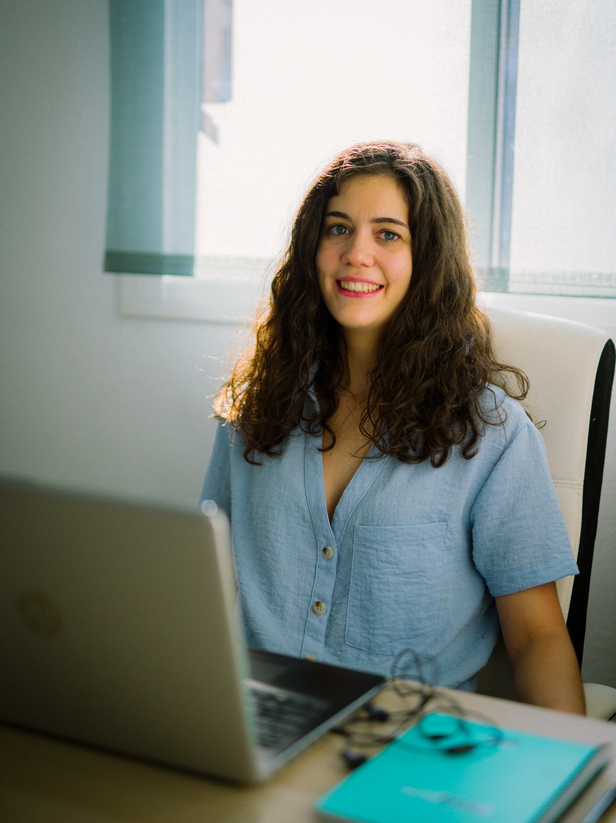
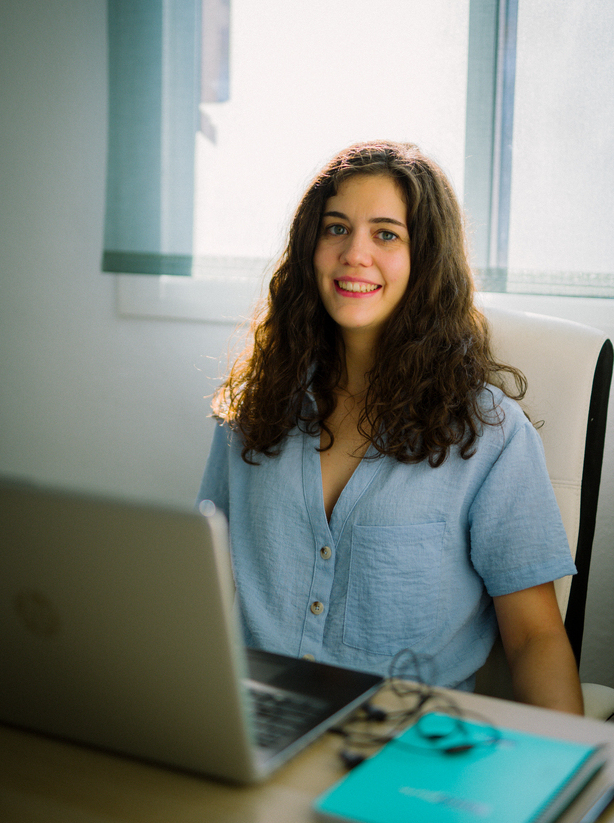
crop a bit about.jpg

diff --git a/content/portfolio/aboutme.md b/content/portfolio/aboutme.md
@@ -2,7 +2,7 @@
 title: "Ana Lara"
 shortDescription: 
 date: 2020-09-13T12:49:27+06:00
-image: images/classic-blog/classic-blog-2.jpg
+image: images/aboutme/aboutme.jpg
 ---
 
 *"Las emociones que no son expresadas, nunca mueren. Son enterradas vivas y salen más tarde de peores formas"*
